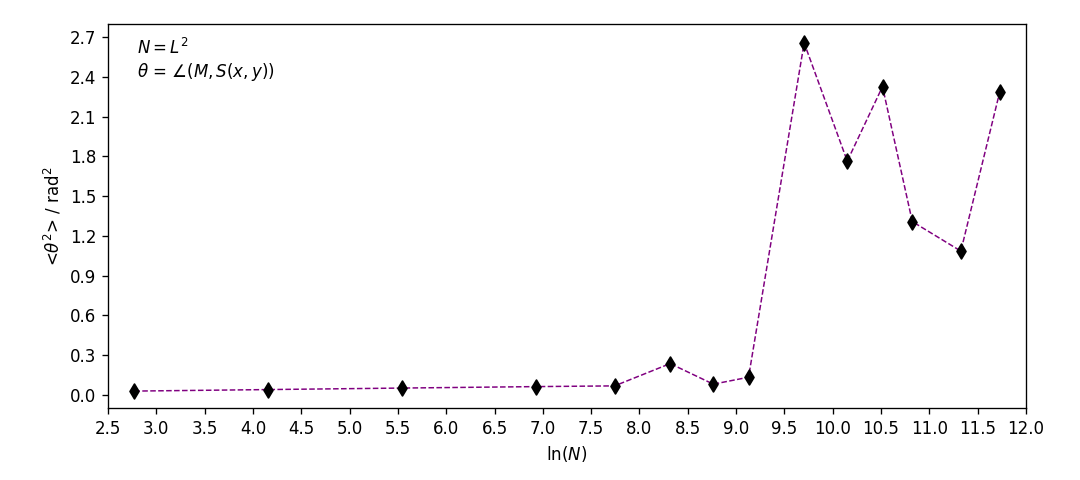
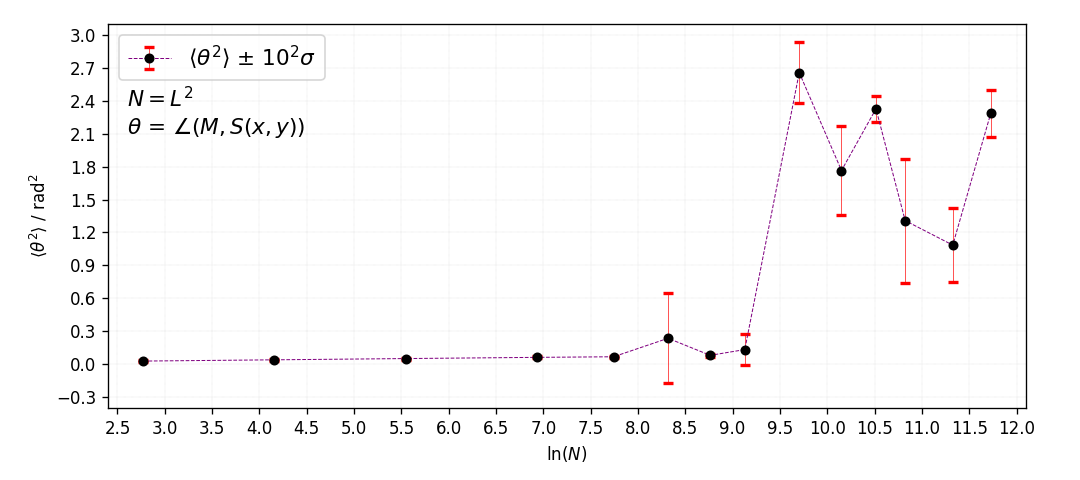
b) gotovo

diff --git a/seminar_Stoh/sem_b.c b/seminar_Stoh/sem_b.c
@@ -1,4 +1,4 @@
-// sem_b.c
+// sem_b_with_ran1.c
 #include <stdio.h>
 #include <stdlib.h>
 #include <math.h>
@@ -73,7 +73,7 @@ int main() {
     long idum = -1208; // Seed za ran1
 
     FILE* fTheta2 = fopen("f_theta2_vs_L.dat", "w");
-    fprintf(fTheta2, "# L  N  <theta^2>  ln(N)\n");
+    fprintf(fTheta2, "# L  N  <theta^2>  sigma_theta2  ln(N)\n");
 
     for (int idx = 0; idx < num_L; idx++) {
         int L = Ls[idx];
@@ -92,7 +92,7 @@ int main() {
             w[j] = exp(-beta * (j / 1000.0));
 
         double E0 = E(Theta, L, J);
-        double accept = 0.0, sum_theta2 = 0.0;
+        double accept = 0.0, sum_theta2 = 0.0, sum_theta2_sq = 0.0;
 
         for (int ib = 1; ib <= Nb_skip + Nb; ib++) {
             for (int ik = 0; ik < Nk * N; ik++) {
@@ -121,7 +121,9 @@ int main() {
 
             if (ib > Nb_skip) {
                 double phiM = M_angle(Theta, L);
-                sum_theta2 += theta2(Theta, phiM, L);
+                double th2 = theta2(Theta, phiM, L);
+                sum_theta2 += th2;
+                sum_theta2_sq += th2 * th2;
             }
 
             if (ib % 100 == 0) {
@@ -132,8 +134,10 @@ int main() {
         }
 
         double mean_theta2 = sum_theta2 / Nb;
+        double mean_theta2_sq = sum_theta2_sq / Nb;
+        double sigma_theta2 = sqrt((mean_theta2_sq - mean_theta2 * mean_theta2) / Nb);
         double lnN = log((double) N);
-        fprintf(fTheta2, "%4d %6d %15.9f %12.7f\n", L, N, mean_theta2, lnN);
+        fprintf(fTheta2, "%4d %6d %15.9f %15.9f %12.7f\n", L, N, mean_theta2, sigma_theta2, lnN);
 
         free(w);
         free_matrix(Theta, L+2);

diff --git a/seminar_Stoh/visual_b.py b/seminar_Stoh/visual_b.py
@@ -4,22 +4,25 @@ import numpy as np
 
 f_data = np.loadtxt("f_theta2_vs_L.dat", comments='#')
 
-theta2, lnN = [], []
+theta2, lnN, sigma = [], [], []
 
 for il in range(len(f_data)):
     theta2.append(f_data[il, 2])
-    lnN.append(f_data[il, 3])
+    lnN.append(f_data[il, 4])
+    sigma.append(100*f_data[il, 3])
 
 fig = plt.figure(figsize=(9,4), dpi=120)
 axes = fig.add_axes([0.10, 0.15, 0.85, 0.80])
-plt.rcParams.update({'font.size': 10}) #type: ignore
-axes.plot(lnN, theta2, lw=0.9, linestyle='--', color='purple', zorder=0)
-axes.scatter(lnN, theta2, color='black', marker='d', s=40, zorder=1)
-axes.set_xlim(2.5, 12.0)
-axes.set_ylim(-0.1, 2.8)
+plt.rcParams.update({'font.size': 13}) #type: ignore
+axes.errorbar(lnN, theta2, yerr=sigma, fmt='o', capsize=3, label=r'$\langle\theta^{2}\rangle$ $\pm$ $10^{2}\sigma$', ecolor='red',
+              elinewidth=0.4, mfc='black', mec='black', ms=4, mew=2, color='purple', linestyle='--', lw=0.6)
+axes.set_xlim(2.4, 12.1)
+axes.set_ylim(-0.4, 3.1)
 axes.set_xlabel('ln($N$)')
-axes.set_ylabel('<$\u03B8^{2}$> / rad$^{2}$')
+axes.set_ylabel(r'$\langle\theta^{2}\rangle$ / rad$^{2}$')
 axes.xaxis.set_major_locator(tick.MultipleLocator(0.5))
 axes.yaxis.set_major_locator(tick.MultipleLocator(0.3))
-axes.text(2.8, 2.4, '$N = L^{2}$\n$\u03B8$'+r' = $\angle(M, S(x,y))$')
+axes.text(2.6, 2.1, '$N = L^{2}$\n$\u03B8$'+r' = $\angle(M, S(x,y))$')
+axes.legend(loc='best')
+axes.grid(lw=0.2, linestyle=':')
 plt.show()
